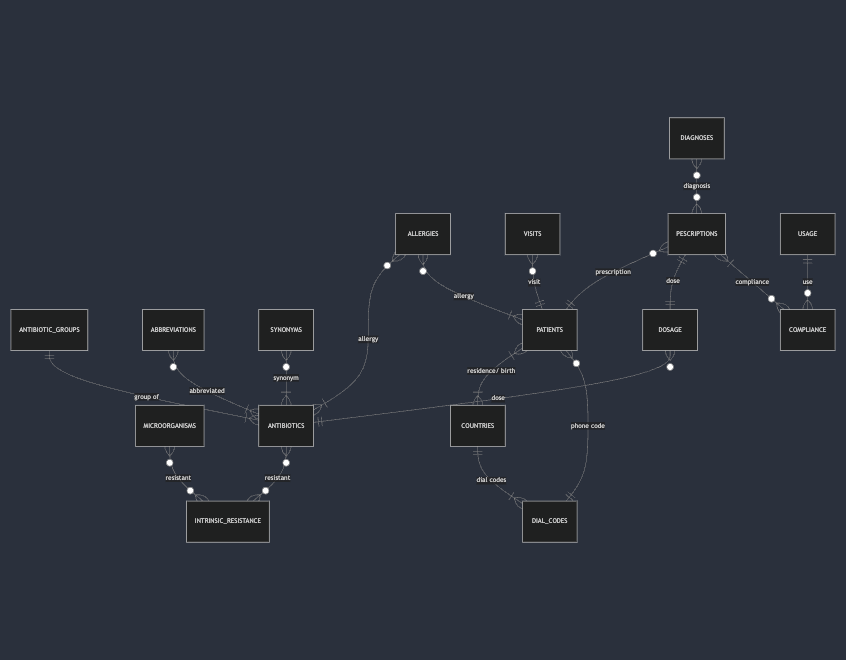
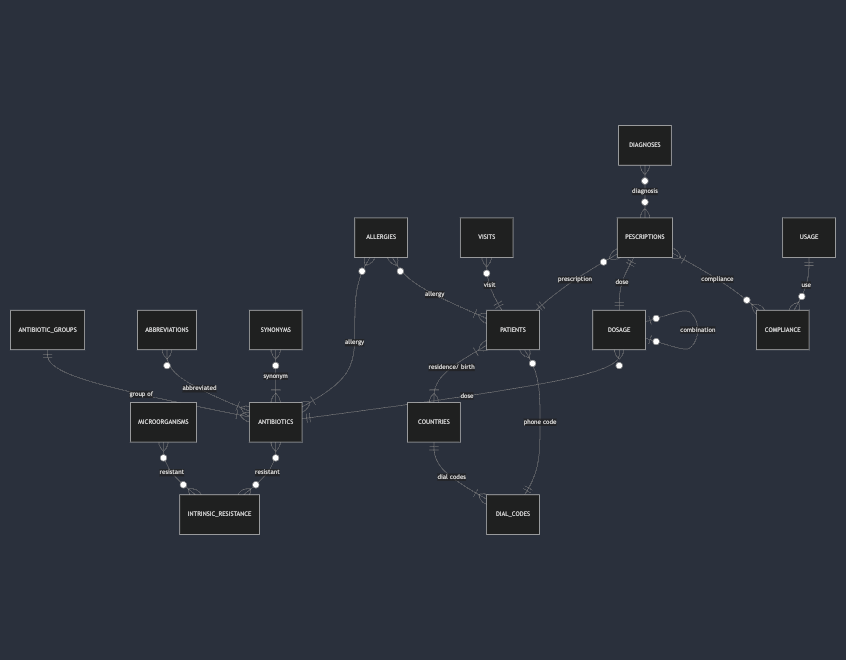
command to add ab group and abx

diff --git a/dataset_files/csv_to_table.py b/dataset_files/csv_to_table.py
@@ -20,8 +20,10 @@ environ.Env.read_env(os.path.join(BASE_DIR, 'database/.env'))
 mydb = mysql.connector.connect(
     host = env('DB_HOST'),
     user = env('DB_USER'),
-    password = env('DB_PASSWORD')
+    password = env('DB_PASSWORD'),
+    database = env('DB_DB'),
 )
+m = mydb.cursor(prepared=True)
 
 
 abx = pd.read_csv('antibiotics.csv')
@@ -33,6 +35,7 @@ abx_columns_to_keep = [
     'abbreviations',
     'synonyms'
 ]
+
 # drop the columns that will not be stored in the database
 abx.drop(
     columns=[col for col in abx if col not in abx_columns_to_keep], 
@@ -41,19 +44,6 @@ abx.drop(
 # convert the synonyms and abbreviations into list
 abx['synonyms'] = abx.synonyms.apply(lambda x: x.split(',') if isinstance(x, str) else x)
 abx['abbreviations'] = abx.abbreviations.apply(lambda x: x.split(',') if isinstance(x, str) else x)
-
-dosage = pd.read_csv('dosage.csv')
-dosage_columns_to_keep = [
-    'ab',
-    'type',
-    'dose',
-    'dose_times',
-    'administration'
-]
-dosage.drop(
-    columns=[col for col in dosage if col not in dosage_columns_to_keep],
-    inplace=True
-    )
 
 microorg = pd.read_csv('microorganisms.csv')
 microorg_columns_to_keep = [
@@ -68,5 +58,47 @@ microorg.drop(
 )
 
 resistance = pd.read_csv('intrinsic_resistant.csv')
+'''
+ab groups
+ab
+abbr
+synonym
+mo
+resistance
+'''
+ab_groups = abx['group'].dropna().unique()
 
-print(len(dosage['ab'].unique()))
+insert_ab_group = 'INSERT INTO antibiotic_groups (name) VALUES (?);'
+get_group_id = "SELECT id FROM antibiotic_groups WHERE name = ? LIMIT 1;"
+insert_ab = 'INSERT INTO antibiotics (ab, cid, name, group_id) VALUES(?,?,?,?);'
+
+for ab in ab_groups:
+    try:
+        m.execute(insert_ab_group, (ab,))
+    except:
+        pass
+    
+
+for index, row in abx.iterrows():
+    ab = row['NA']
+    cid = row['cid']
+    name = row['name']
+    group = row['group']
+    
+    if type(group) == str:
+        m.execute(get_group_id, (group,))
+        group_id = m.fetchone()[0]
+    else:
+        group_id = None
+    
+    if math.isnan(cid):
+        cid = None
+    
+    antibiotic = (ab,cid, name, group_id)
+    try:
+        m.execute(insert_ab, antibiotic)
+    except Exception as e:
+        print(e)
+        
+
+mydb.close()

diff --git a/dataset_files/dosage_to_table.py b/dataset_files/dosage_to_table.py
@@ -1,0 +1,31 @@
+import pandas as pd
+import environ
+import mysql.connector
+import os
+from pathlib import Path
+
+env = environ.Env(
+    DEBUG=(bool, False)
+)
+BASE_DIR = Path(__file__).resolve().parent.parent
+
+environ.Env.read_env(os.path.join(BASE_DIR, 'database/.env'))
+
+mydb = mysql.connector.connect(
+    host = env('DB_HOST'),
+    user = env('DB_USER'),
+    password = env('DB_PASSWORD')
+)
+
+dosage = pd.read_csv('dosage.csv')
+dosage_columns_to_keep = [
+    'ab',
+    'type',
+    'dose',
+    'dose_times',
+    'administration'
+]
+dosage.drop(
+    columns=[col for col in dosage if col not in dosage_columns_to_keep],
+    inplace=True
+    )

diff --git a/DESIGN.md b/DESIGN.md
@@ -106,10 +106,10 @@ Out of the scope of the database is other medications not listed
     - Primary Key
     - `SMALLINT UNSIGNED NOT NULL UNIQUE AUTO_INCREMENT`
     - 484 abbreviations in the dataset so `SMALLINT` is used
-- `ab_id`
+- `ab`
     - Foreign Key to the unique ID of the antibiotic related to the `ab` column on the `antibiotics` table
     - `CHAR(3) NOT NULL`
-- `abbr`
+- `abbreviation`
     - abbreviated name
     - `VARCHAR(32) NOT NULL`
 </details>
@@ -122,7 +122,7 @@ Out of the scope of the database is other medications not listed
     - Primary Key
     - `SMALLINT UNSIGNED NOT NULL UNIQUE AUTO_INCREMENT`
     - 5933 synonyms in the dataset so `SMALLINT` is used
-- `ab_id`
+- `ab`
     - Foreign Key to the unique ID of the antibiotic related to the `ab` column on the `antibiotics` table
     - `CHAR(3) NOT NULL`
 - `synonym`
@@ -173,18 +173,30 @@ Intrinsic resistance is when a bacterial species is naturally resistant to a cer
 <summary>List of standard dosage for antibiotics</summary>
 
 - `id`
+    - Primary Key
+    - `SMALLINT UNSIGNED NOT NULL UNIQUE AUTO_INCREMENT`
 - `ab`
+    -  Foreign Key referencing the `ab` column in the `antibiotics` table
 - `type`
+    - `ENUM('standard_dosage','high_dosage','uncomplicated_uti')`
+    - Three types of dosage based on the dataset
 - `min_dose`
-    - in milligram
+    - Minimum dosage in milligram
 - `max_dose`
-    - in milligram, allowed NULL for doses that does not have a range
+    - Maximum dosage in milligram, allowed NULL for doses that does not have a range
 - `per_kg`
     - 0 for false, 1 for true
     - If true, the dose is considered mg/kg. Otherwise, dose is as is.
+- `dose_times`
+    - `TINYINT UNSIGNED`
+    - Number of times dose must be administered
 - `administration`
     - `ENUM('iv','oral','im')`
     - Allowed NULL because of some missing information in the csv dataset
+- `combination_dose_id`
+    - `SMALLINT DEFAULT NULL`
+
+`CONSTRAINT combination_doses FOREIGN KEY(combination_dose_id) REFERENCES dosage(id) ON DELETE SET NULL`
 
 </details>
 
@@ -376,7 +388,7 @@ write for a technical audience
 - neighbourhood of 1000 words
 - describing the project and all aspects of its functionality
 
-## entity relationship diagram
+## Entity Relationship Diagram
 ![ER diagram](images/ER_diagram.png)
 
 ## video overview
